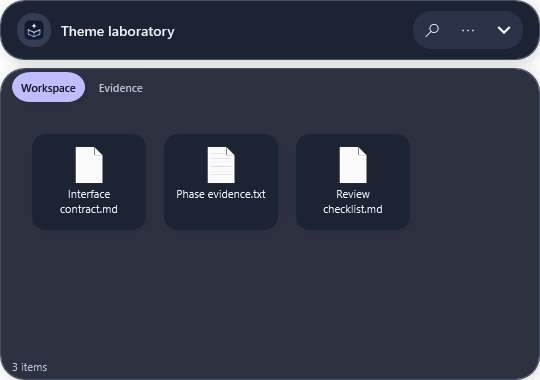
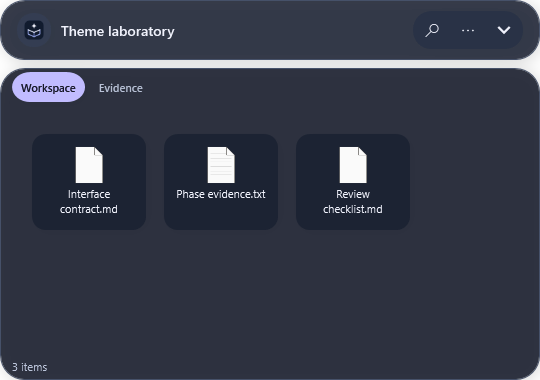
Apply dock surface transparency to headers without fading foregrounds

Changed region(s): [[0.0, 0.0, 1.0, 0.1737]]

diff --git a/src/OrbitDock.App/SettingsWindow.xaml b/src/OrbitDock.App/SettingsWindow.xaml
@@ -104,7 +104,7 @@
                             </Expander>
                             <TextBlock x:Name="AppearanceValidationText" TextWrapping="Wrap" Foreground="{DynamicResource Pandora.DangerBrush}" Margin="0,0,0,12" Visibility="Collapsed" AutomationProperties.LiveSetting="Assertive" />
                             <Grid Margin="0,0,0,8"><Grid.ColumnDefinitions><ColumnDefinition Width="*" /><ColumnDefinition Width="24" /><ColumnDefinition Width="Auto" /></Grid.ColumnDefinitions>
-                                <StackPanel><DockPanel><TextBlock x:Name="GlassOpacityText" DockPanel.Dock="Right" Text="88%" HorizontalAlignment="Right" /><TextBlock Text="Dock background opacity" Style="{StaticResource FieldLabel}" /></DockPanel><Slider x:Name="GlassOpacitySlider" Minimum="55" Maximum="100" TickFrequency="1" IsSnapToTickEnabled="True" ValueChanged="GlassOpacitySlider_ValueChanged" AutomationProperties.Name="Dock background opacity percent" /></StackPanel>
+                                <StackPanel><DockPanel><TextBlock x:Name="GlassOpacityText" DockPanel.Dock="Right" Text="88%" HorizontalAlignment="Right" /><TextBlock Text="Dock surface opacity" Style="{StaticResource FieldLabel}" /></DockPanel><Slider x:Name="GlassOpacitySlider" Minimum="55" Maximum="100" TickFrequency="1" IsSnapToTickEnabled="True" ValueChanged="GlassOpacitySlider_ValueChanged" AutomationProperties.Name="Dock surface opacity percent" ToolTip="Header and body backgrounds. Text and controls stay solid; individual dock overrides still apply." /></StackPanel>
                                 <CheckBox x:Name="ReduceMotionCheckBox" Grid.Column="2" Content="Reduce motion" Click="AppearancePreference_Click" VerticalAlignment="Center" Margin="0" />
                             </Grid>
                             <TextBlock x:Name="AccessibilityText" Style="{StaticResource MutedText}" Text="Windows high contrast and reduced-animation preferences are always respected." Margin="0,0,0,18" />

diff --git a/tests/OrbitDock.App.Tests/DockChromeOpacityChecks.cs b/tests/OrbitDock.App.Tests/DockChromeOpacityChecks.cs
@@ -1,0 +1,84 @@
+using System.IO;
+using System.Windows;
+using System.Windows.Controls;
+using System.Windows.Media;
+using System.Windows.Media.Imaging;
+using OrbitDock.App;
+using OrbitDock.Core;
+
+namespace Pandora.App.Tests;
+
+internal static partial class Program
+{
+    private static void DockChromeOpacity()
+    {
+        using var fixture = new ManagerFixture(Path.Combine(_fixturePath, "header-opacity"));
+        var zone = CreateFixtureDock(fixture, "Glass workspace", 1);
+        using var vm = new ZoneViewModel(zone, fixture.Manager);
+        var window = new ZoneWindow(vm, fixture.Manager);
+        try
+        {
+            foreach (var structure in Structures)
+            foreach (var palette in Palettes)
+            foreach (var opacity in new[] { 0.55, 0.73, 1.0 })
+            {
+                ThemeService.Apply(palette, opacity, true, structure, null, null);
+                Drain();
+                var header = Find<Border>(window, "HeaderBorder");
+                var actual = (SolidColorBrush)header.Background;
+                Assert(Math.Abs(actual.Opacity - ThemeService.DockOpacity) < 0.001, "Header did not follow live global opacity.");
+                Assert(actual.Color == Brush("Surface").Color && Brush("Surface").Opacity == 1,
+                    "Header opacity must not mutate palette colors or shared Settings/menu brushes.");
+                Assert(header.Opacity == 1 && window.Opacity == 1 && Find<Grid>(window, "HeaderGrid").Opacity == 1,
+                    "Header children/window must not be faded with the background.");
+                var title = Descendants(header).OfType<TextBlock>().Single(t => t.Text == zone.Name);
+                Assert(title.Opacity == 1 && title.Foreground is SolidColorBrush titleBrush && titleBrush.Opacity == 1 && titleBrush.Color.A == 255,
+                    "Dock title must keep opaque text.");
+                var footer = (SolidColorBrush)Find<Border>(window, "StatusBorder").Background;
+                Assert(structure == "Halo" ? footer.Color.A == 0 : Math.Abs(footer.Opacity - ThemeService.DockOpacity) < 0.001,
+                    "Footer must share opacity or use Halo's already translucent body underneath.");
+            }
+
+            foreach (var custom in new[]
+            {
+                new ZoneAppearance { Opacity = 0.65 },
+                new ZoneAppearance { BackgroundColor = "#123456", Opacity = 0.88 },
+                new ZoneAppearance { Opacity = 0.1 },
+                new ZoneAppearance { Opacity = double.NaN },
+                new ZoneAppearance { Opacity = double.PositiveInfinity }
+            })
+            {
+                var body = ThemeService.GetDockBackground(custom);
+                var chrome = ThemeService.GetDockChrome(custom);
+                Assert(double.IsFinite(chrome.Opacity) && Math.Abs(chrome.Opacity - body.Opacity) < 0.001,
+                    "Header/body must resolve custom or malformed opacity identically.");
+                if (ThemeService.IsHighContrast) Assert(chrome.Opacity == 1, "High contrast must remain opaque.");
+            }
+
+            foreach (var structure in Structures)
+            foreach (var palette in new[] { "LunarGlass", "Limestone" })
+            foreach (var collapsed in new[] { false, true })
+            foreach (var opacity in new[] { 0.55, 1.0 })
+            {
+                zone.IsCollapsed = collapsed;
+                ThemeService.Apply(palette, opacity, true, structure, null, null);
+                Invoke(window, "ApplyWindowBounds", zone.Bounds);
+                var name = $"header-opacity-{structure}-{palette}-{(collapsed ? "closed" : "open")}-{opacity * 100:0}";
+                Capture((FrameworkElement)window.Content, name, 540, collapsed ? window.CollapsedVisualHeight : 380);
+                var header = Find<Border>(window, "HeaderBorder");
+                var blankPoint = header.TranslatePoint(new Point(340, header.ActualHeight / 2), (UIElement)window.Content);
+                using var stream = File.OpenRead(Path.Combine(_runPath, name + ".png"));
+                var frame = BitmapFrame.Create(stream, BitmapCreateOptions.PreservePixelFormat, BitmapCacheOption.OnLoad);
+                var pixel = new byte[4];
+                frame.CopyPixels(new Int32Rect((int)blankPoint.X, (int)blankPoint.Y, 1, 1), pixel, 4, 0);
+                Assert(ThemeService.IsHighContrast || opacity == 1 ? pixel[3] == 255 : pixel[3] is > 0 and < 245,
+                    $"Header render has unexpected alpha {pixel[3]}: {name}. An opaque backing may hide transparency.");
+                if (collapsed) Assert(Near(window.Height, window.CollapsedVisualHeight), "Transparency changed rolled-up height.");
+                if (collapsed && palette == "LunarGlass")
+                    Capture((FrameworkElement)window.Content, name + "-synthetic-backdrop", 540, window.CollapsedVisualHeight,
+                        backdrop: new LinearGradientBrush(Color.FromRgb(33, 73, 82), Color.FromRgb(187, 151, 87), 0));
+            }
+        }
+        finally { window.Close(); }
+    }
+}

diff --git a/tests/OrbitDock.App.Tests/Program.cs b/tests/OrbitDock.App.Tests/Program.cs
@@ -59,6 +59,7 @@ internal static partial class Program
         Run("Appearance save failure rolls back every new preference", StructuralSettingsSaveFailure);
         Run("All structural themes render differently at each palette", StructuralDockRenders);
         Run("Collapsed normalization preserves state, expanded geometry, and anchoring", CollapsedDockRegression);
+        Run("Header transparency follows surface opacity without fading foregrounds", DockChromeOpacity);
         Run("Projects: empty registry and explicit error states", ProjectStates);
         Run("Projects: read-only multi-project details and item-sized buckets", ProjectDetails);
         Run("Verification never displayed an application window", () =>
@@ -288,7 +289,7 @@ internal static partial class Program
         catch (TargetInvocationException ex) { throw ex.InnerException ?? ex; }
     }
 
-    private static void Capture(FrameworkElement content, string name, double width, double height, double dpi = 96)
+    private static void Capture(FrameworkElement content, string name, double width, double height, double dpi = 96, Brush? backdrop = null)
     {
         // Application invalidation normally reaches shown Window roots. Offscreen, detached
         // controls need an explicit resource boundary so a new palette invalidates their tree.
@@ -303,6 +304,12 @@ internal static partial class Program
         content.UpdateLayout();
         Drain();
         var bitmap = new RenderTargetBitmap((int)Math.Ceiling(width * dpi / 96), (int)Math.Ceiling(height * dpi / 96), dpi, dpi, PixelFormats.Pbgra32);
+        if (backdrop is not null)
+        {
+            var scene = new DrawingVisual();
+            using (var context = scene.RenderOpen()) context.DrawRectangle(backdrop, null, new Rect(0, 0, width, height));
+            bitmap.Render(scene);
+        }
         if (Window.GetWindow(content) is { Background: { } background })
         {
             // The Window owns its background, not its Content. Include that actual brush in

diff --git a/src/OrbitDock.App/ThemeService.cs b/src/OrbitDock.App/ThemeService.cs
@@ -246,12 +246,25 @@ public static class ThemeService
         if (IsHighContrast) return new SolidColorBrush(SystemColors.WindowColor);
         var useTheme = IsFactoryBackground(appearance.BackgroundColor);
         var color = useTheme ? ResourceColor("Pandora.WindowBrush", "#151A29") : TryParse(appearance.BackgroundColor, "#151A29");
+        return new SolidColorBrush(color) { Opacity = GetDockSurfaceOpacity(appearance) };
+    }
+
+    /// <summary>Header/footer surfaces share dock opacity, without fading foregrounds or shared UI resources.</summary>
+    public static SolidColorBrush GetDockChrome(ZoneAppearance appearance) => new(
+        IsHighContrast ? SystemColors.ControlColor : ResourceColor("Pandora.SurfaceBrush", "#1C2333"))
+    {
+        Opacity = GetDockSurfaceOpacity(appearance)
+    };
+
+    private static double GetDockSurfaceOpacity(ZoneAppearance appearance)
+    {
+        if (IsHighContrast) return 1;
         // Known factory color/opacity pairs follow the global control; arbitrary custom values do not.
         var factoryOpacity = Math.Abs(appearance.Opacity - 0.88) < 0.0001 ||
             Math.Abs(appearance.Opacity - 0.82) < 0.0001 || Math.Abs(appearance.Opacity - 0.80) < 0.0001 ||
             Math.Abs(appearance.Opacity - 0.76) < 0.0001;
-        var opacity = useTheme && factoryOpacity ? DockOpacity : appearance.Opacity;
-        return new SolidColorBrush(color) { Opacity = double.IsFinite(opacity) ? Math.Clamp(opacity, 0.1, 1) : DockOpacity };
+        var opacity = IsFactoryBackground(appearance.BackgroundColor) && factoryOpacity ? DockOpacity : appearance.Opacity;
+        return double.IsFinite(opacity) ? Math.Clamp(opacity, 0.1, 1) : DockOpacity;
     }
 
     public static SolidColorBrush GetDockAccent(ZoneAppearance appearance)

diff --git a/src/OrbitDock.App/ZoneWindow.xaml.cs b/src/OrbitDock.App/ZoneWindow.xaml.cs
@@ -1003,7 +1003,7 @@ public partial class ZoneWindow : Window
         BodyChrome.CornerRadius = profile.SeparatedHeader ? new CornerRadius(profile.CornerRadius) : new CornerRadius(0);
         HeaderBorder.CornerRadius = collapsed || profile.SeparatedHeader ? new CornerRadius(radius) : bottom ? new CornerRadius(0, 0, radius, radius) : new CornerRadius(radius, radius, 0, 0);
         StatusBorder.CornerRadius = bottom ? new CornerRadius(radius, radius, 0, 0) : new CornerRadius(0, 0, radius, radius);
-        StatusBorder.Background = profile.SeparatedHeader ? Brushes.Transparent : ResourceBrush("Pandora.SurfaceBrush");
+        StatusBorder.Background = profile.SeparatedHeader ? Brushes.Transparent : _viewModel.HeaderBrush;
         NavigationHost.Margin = new Thickness(12, bottom ? 0 : profile.HeaderGap, 12, bottom ? profile.HeaderGap : 0);
         NavigationHost.Padding = new Thickness(0, 4, 0, 4);
         NavigationHost.BorderBrush = _viewModel.BorderBrush;

diff --git a/src/OrbitDock.App/ZoneViewModel.cs b/src/OrbitDock.App/ZoneViewModel.cs
@@ -62,7 +62,7 @@ public sealed class ZoneViewModel : INotifyPropertyChanged, IDisposable
         ? ThemeResource("Pandora.SurfaceBrush") : Brushes.Transparent;
     public Brush ItemBorderBrush => ThemeId == "Meridian" ? ThemeResource("Pandora.BorderBrush") : Brushes.Transparent;
     public System.Windows.Media.Brush AccentBrush => ThemeService.GetDockAccent(Zone.Appearance);
-    public System.Windows.Media.Brush HeaderBrush => ThemeResource("Pandora.SurfaceBrush");
+    public System.Windows.Media.Brush HeaderBrush => ThemeService.GetDockChrome(Zone.Appearance);
     public System.Windows.Media.Brush BackgroundBrush => ThemeService.GetDockBackground(Zone.Appearance);
     public System.Windows.Media.Brush BorderBrush => ThemeResource("Pandora.BorderBrush");
     public ImageSource? BrandImage => BrandIdentity.Image(_manager.Workspace.Settings.IconStyle, 32);

diff --git a/tests/OrbitDock.App.Tests/README.md b/tests/OrbitDock.App.Tests/README.md
@@ -13,3 +13,5 @@ The harness loads the same compiled `Themes/PandoraControls.xaml` resource dicti
 PNG files are deterministic offscreen renders of the actual WPF content using `Measure`, `Arrange`, and `RenderTargetBitmap`, not screenshots of the user's desktop or HTML approximations. These tests do **not** demonstrate live taskbar/tray behavior, Explorer layering, mixed-DPI monitor movement, keyboard focus across native popups, or GPU/compositor transparency. Those remain separate manual Windows acceptance checks.
 
 Structural-theme coverage includes Classic/Halo/Meridian with all five palettes; custom RGB validation and contrast; independent icon/color/structure persistence; invalid-draft preview; failed-save rollback; and narrow dock renders. All three icons are tested; review images use Aperture. Collapse regression cases use production placement helpers with top/bottom anchors, one/two tabs, initial collapsed/expanded state, forced size normalization, restoration, and fixture-store persistence. Height-clamp cases separately assert that an already-valid bottom stays fixed, while an out-of-work-area bottom moves only to the allowed boundary. They do not synthesize native drag events. `structural-geometry.json`, `structural-custom-contrast.json`, and `collapsed-placement-regression.json` contain the measured evidence.
+
+Header-opacity coverage checks live brush updates, per-dock overrides, nonfinite inputs, opaque foregrounds/shared menu resources and open/rolled-up geometry. Pixel-alpha assertions detect opaque layers behind a supposedly translucent header. Images ending in `synthetic-backdrop` render the same actual control over a fixture gradient for visual comparison; they are not desktop screenshots.

diff --git a/docs/configuration.md b/docs/configuration.md
@@ -75,7 +75,7 @@ System follows the Windows app theme. The legacy `Graphite` value resolves to Lu
 
 Use the color pickers or enter six-digit `#RRGGBB` values. Blank fields clear the optional override. The global accent and surface choices generate related text, muted text, focus, border, selection, and status roles for readability; they are not a collection of unrelated raw brush overrides. Invalid drafts are identified before applying. Intentional per-dock accent/background overrides remain intact when the global theme, palette, or custom colors change.
 
-`glassOpacity` is a 0.55–1.0 surface-opacity preference, not window/text opacity. `reduceMotion` suppresses optional motion. Windows high contrast overrides the palette and forces opaque surfaces; Windows reduced-animation preferences are respected.
+**Dock surface opacity** (`glassOpacity`, 0.55–1.0) affects the header/name background, body and footer across all structures, including rolled-up docks. Text, icons and controls remain solid; this is not window opacity. Intentional per-dock opacity overrides apply to these surfaces together. Menus and Settings retain opaque backgrounds. `reduceMotion` suppresses optional motion. Windows high contrast overrides the palette and forces opaque surfaces; Windows reduced-animation preferences are respected.
 
 `iconStyle` selects `Aperture`, `Selene`, or `Aster` for product surfaces. The shipped executable uses Aperture; desktop shortcuts can be refreshed with `install-test-shortcut.ps1 -IconStyle Selene`.
 
